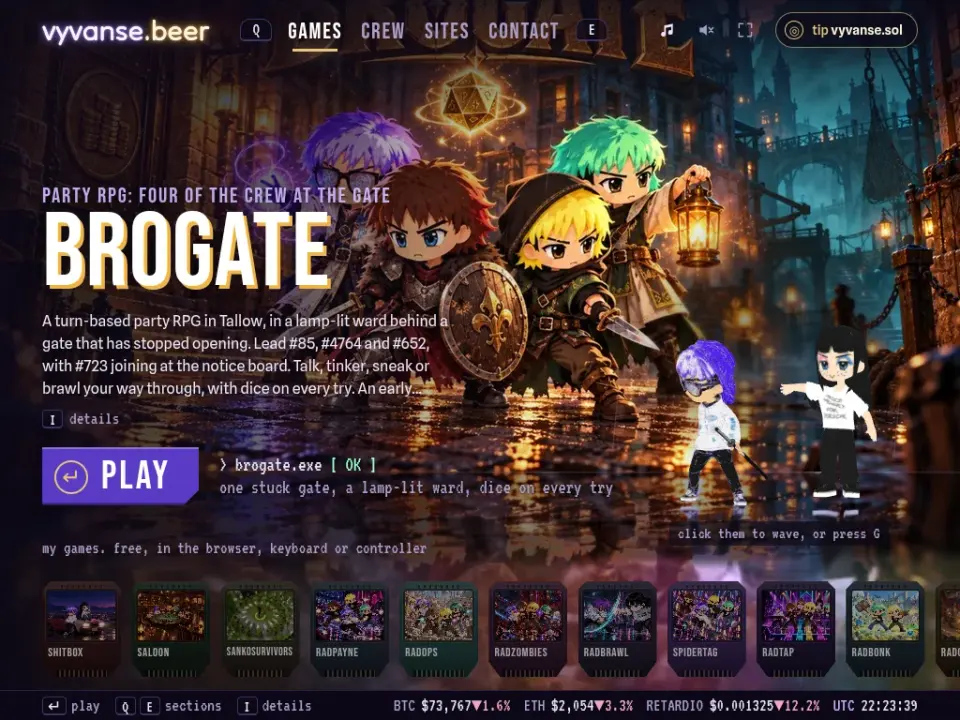
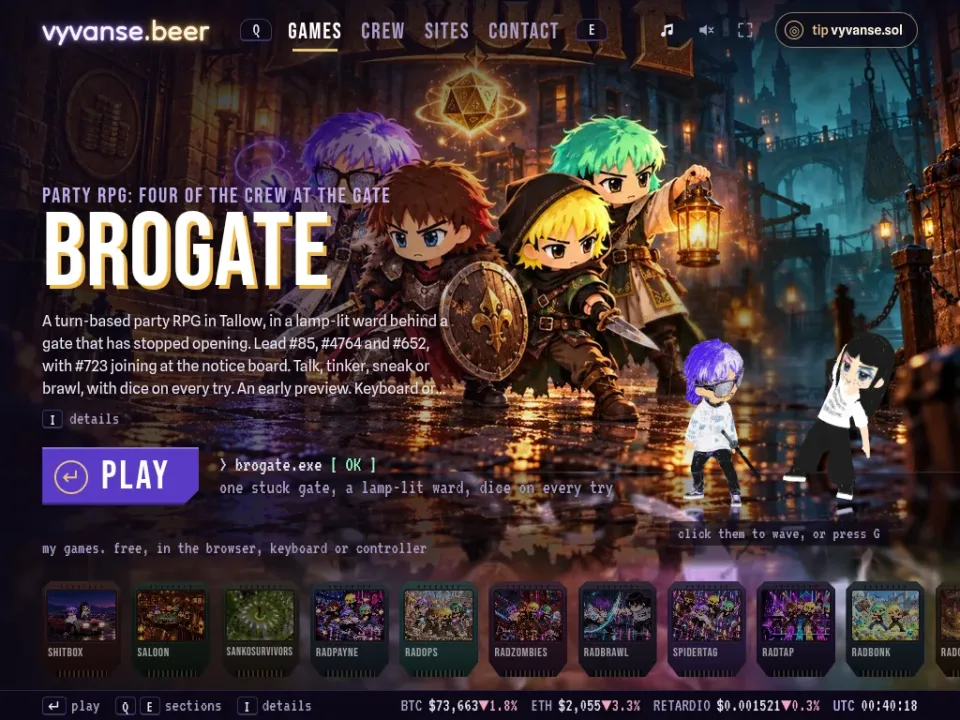
Retake the BROGATE pictures with the shorter blurb and note where blurbs are cut

diff --git a/docs/review/blast-1110/vyv-content/NOTES.md b/docs/review/blast-1110/vyv-content/NOTES.md
@@ -3,5 +3,5 @@
 Before stills are the live site and after stills are this branch's build, each pair at the same address and window size (the file name says which).
 RadQuest, RADCRAFT and BROGATE now show their paintings across the panel and in the puddle at 1280x720, 1440x900 and 1920x1080 with none of the painted title in view; at 1024x768 the lower part of each painted title shows behind the tabs (the lower half of RADQUEST's letters, the bottoms of RADCRAFT's blocks, the lower third of BROGATE's with its painted die underneath), and the 626x890 phone crop is unchanged.
 The cards now say what the live games have: BROGATE's ward in Tallow and its real party, RadQuest starring #652, RADCRAFT single player, ZombieTardio's four maps and over forty cars in SHITBOX, so on Crew #85 gains BROGATE while #3704 loses BROGATE and RadQuest.
-SHITBOX's status line reads "40+ cars" because "over forty cars" made the line long enough to run into #4764's feet at 1024x768; the blurb keeps the words.
-On Sites, Sassy's button and monitor bar now point at sassysol.lol/camp; its status line already ran under the monitor's corner at 1280x720 and is five letters longer.
+The new blurbs are longer than the old ones: RADCRAFT's fits everywhere, RadQuest's and BROGATE's fit whole at 1920x1080, 1440x900 and 626x890 and end in the shelf's usual ellipsis at 1280x720 and 1024x768 with the rest under details, and SHITBOX's status line reads "40+ cars" because "over forty cars" ran into #4764's feet at 1024x768.
+On Sites, Sassy's button and monitor bar now point at sassysol.lol/camp; its status line already ran under the monitor's corner at 1280x720 and is five letters longer, the same length as Solscape's.
